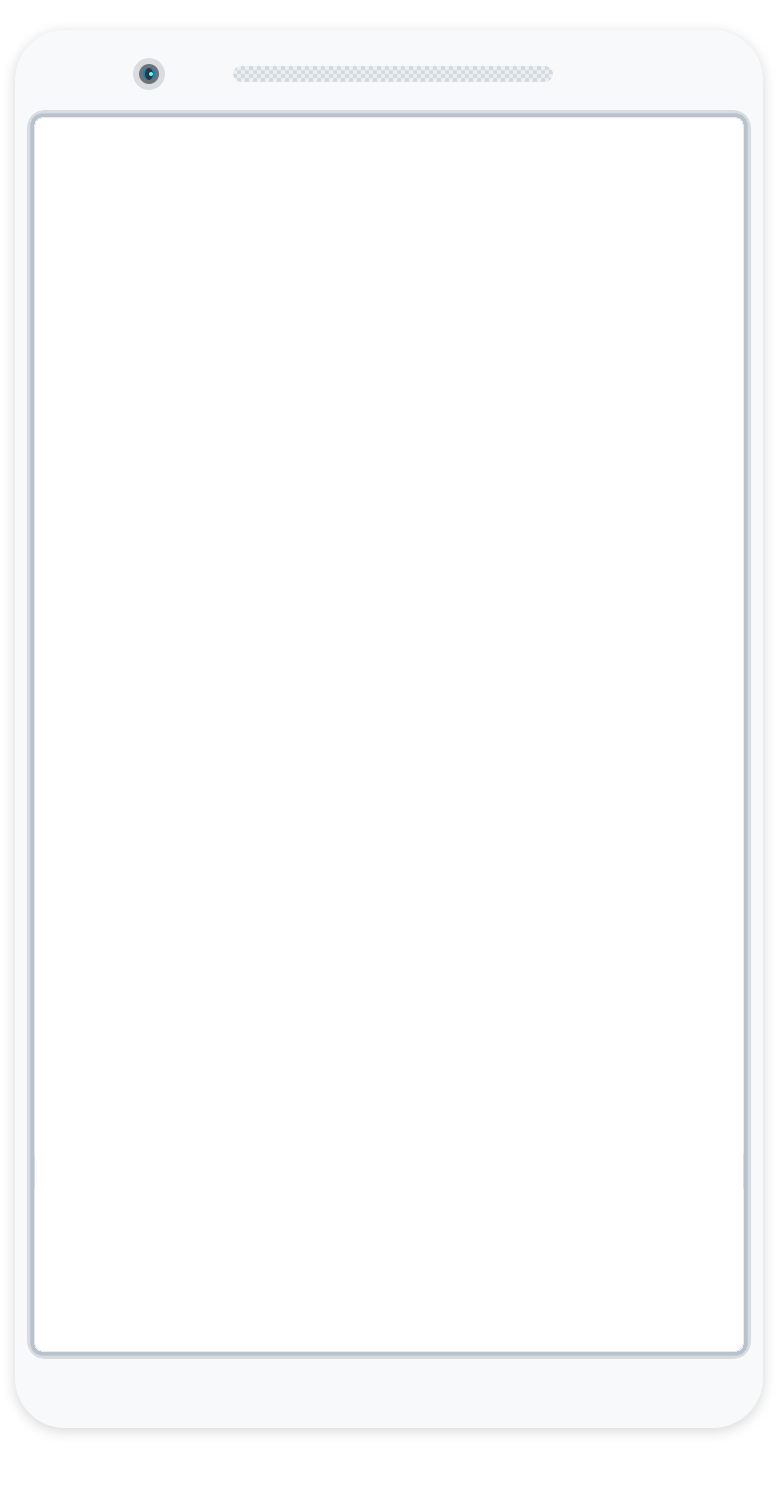
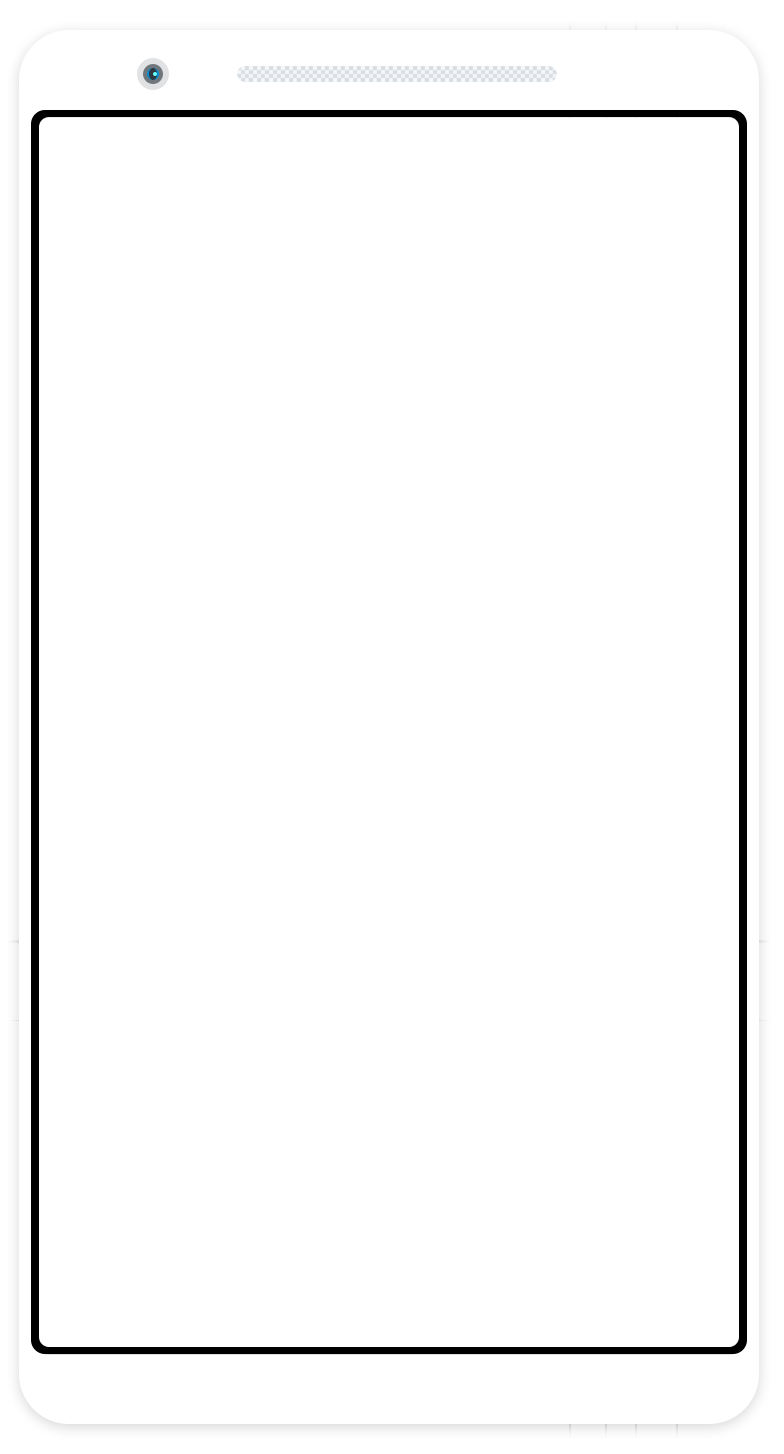
Fixed the mobile.png

Changed region(s): [[0.0306, 0.0309, 0.9796, 0.9594]]

diff --git a/source/stylesheets/_base.scss b/source/stylesheets/_base.scss
@@ -497,15 +497,15 @@ a.button-play {
 .mobile-screen {
     background-size: 252px auto;
     background-repeat: no-repeat;
-    background-position: 11px 24px;
+    background-position: 10px 24px;
     display: block;
 }
 
 .mobile-screen-overlay {
     background-image: url(/images/mobile.png);
     width: 274px;
-    height: 526px;
-    background-size: cover;
+    height: 510px;
+    background-size: 274px auto;
     display: block;
 }
 
